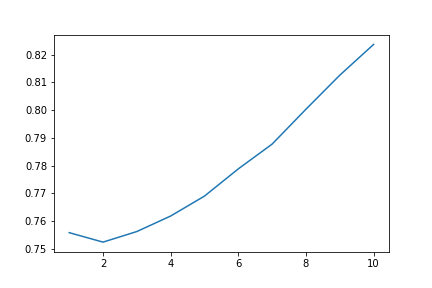
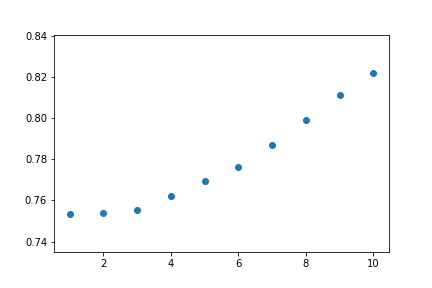
pushing

diff --git a/clasifica_jugo.py b/clasifica_jugo.py
@@ -91,11 +91,12 @@ print(np.shape(train))
 print(np.shape(train_ran))
 
 
-# In[105]:
+# In[120]:
 
 
+N=16
 F1_score_av=np.zeros(10)
-Fea_imp_av=np.zeros((10,16))
+Fea_imp_av=np.zeros((10,N))
 for i in range(100):
     train_ran=bootstrap_resample(np.array(train))
     F1_score=[]
@@ -128,19 +129,20 @@ print(np.shape(F1_score_av))
 print(np.shape(Fea_imp_av[:,0]))
 
 
-# In[109]:
+# In[121]:
 
 
-plt.plot(np.arange(1,11),F1_score_av)
+plt.scatter(np.arange(1,11),F1_score_av)
 plt.savefig("f1_score.png")
 
 
-# In[117]:
+# In[127]:
 
 
-for i in range(16):
-    plt.plot(np.arange(1,11),Fea_imp_av[:,0])
-plt.savefig("fea_imp.png")
+#plt.figure
+for i in range(N):
+    plt.scatter(np.arange(1,11),Fea_imp_av[:,0],label="{}".format(i))
+#plt.savefig("fea_imp.png")
 
 
 # In[ ]:

diff --git a/README.md b/README.md
@@ -3,3 +3,4 @@
 16/03/2020
 16/03/2020
 16/03/2020
+16/03/2020
